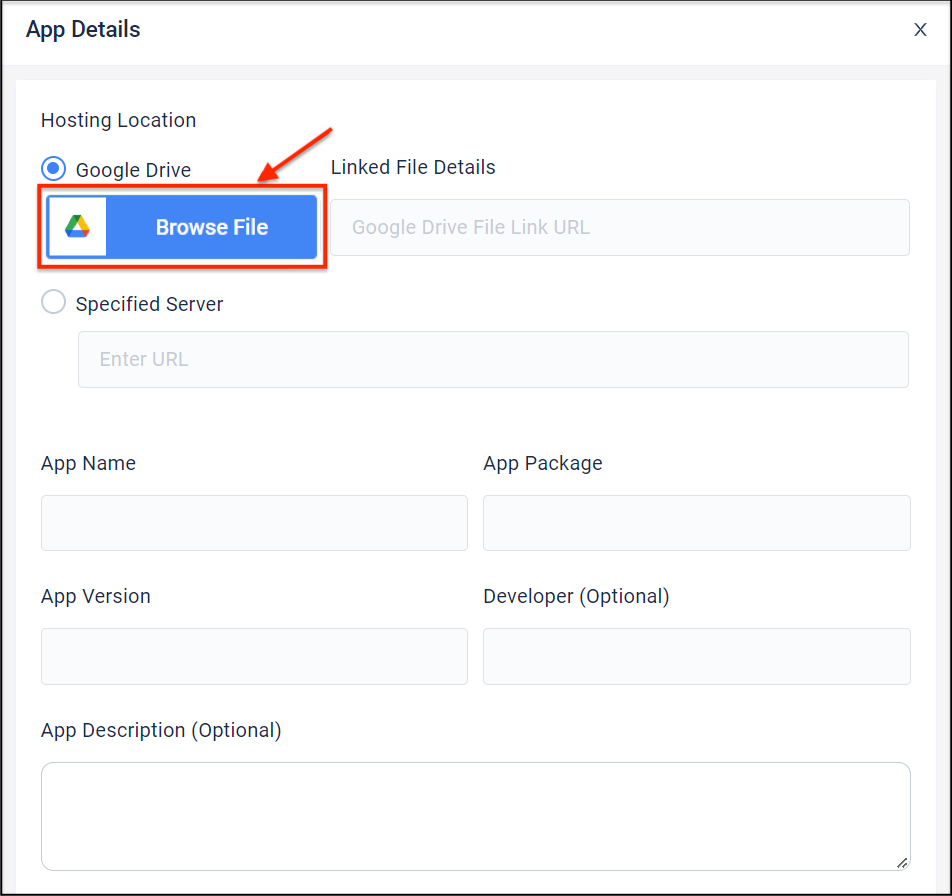
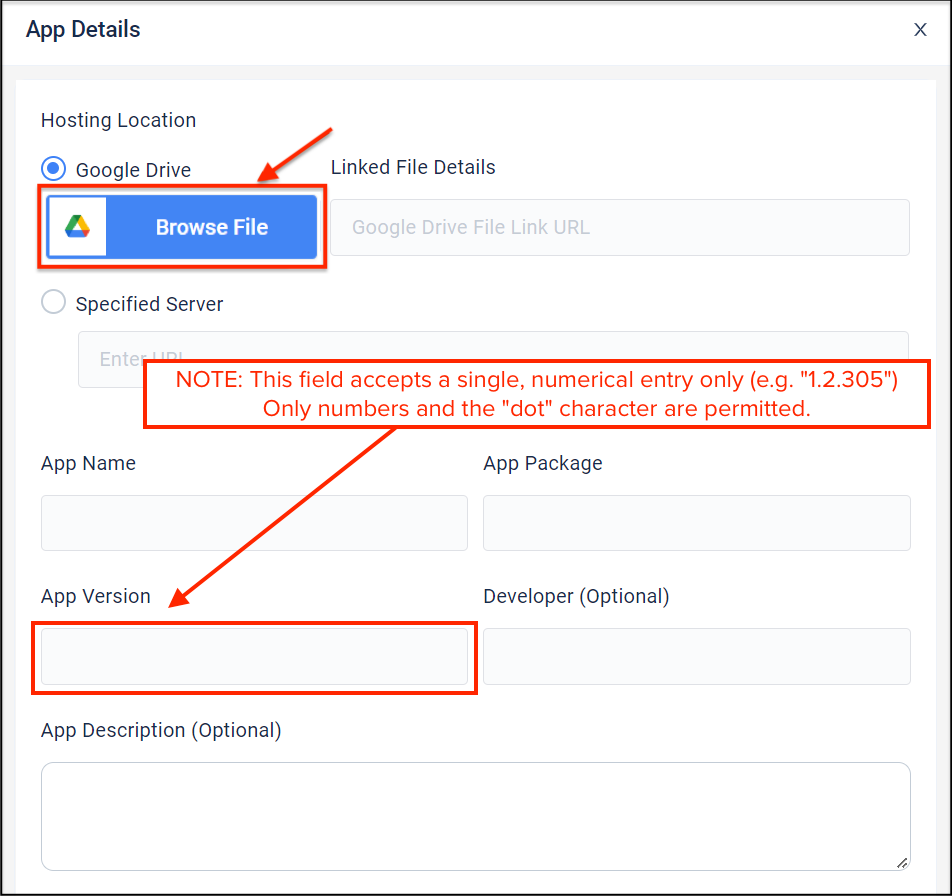
[TUT-98483] ZDNA 3.14 My Collection clarity. per PdM

diff --git a/zebradna/3-14/usage/index.html b/zebradna/3-14/usage/index.html
@@ -33,7 +33,8 @@
     <script src="js/respond.min.js"></script>
     <![endif]--> 
 
[1 lines of base64/hex data omitted]
+    <!-- 6/13/24- a "crown" icon randomly appeared in the MX matrix today. Rob said it looked like sumo. 
[1 lines of base64/hex data omitted]
     <link rel="shortcut icon" href="/favicon.ico">
 <script async="" src="https://www.googletagmanager.com/gtag/js?id=G-01QJCMQM9N"></script><script>
   window.dataLayer = window.dataLayer || [];
@@ -1138,13 +1139,17 @@ When finished uploading files <strong>click Next</strong> to proceed: <br>
 <h5 id="fromthemycollectiontab" class="anchor"><a class="heading-anchor" href="#fromthemycollectiontab"><span></span></a>From the My Collection tab:</h5>
 
 <ol>
-<li><p><strong>Click "Add App"</strong> to introduce a new app to the system<br> 
+<li><strong>Click "Add App"</strong> to introduce a new app to the system<br> 
 &nbsp;&nbsp;&nbsp;&nbsp; <strong>- OR -</strong> <br> 
 <strong>Click "Add Version"</strong> to add another version of an app already in the system: 
 <img alt="image" style="height:350px" src="myApps_01.png">
 <em>Click image to enlarge; ESC to exit.</em>
-<br></p></li>
+<br></li>
+</ol>
 
+<p><a id="appver"></a></p>
+
+<ol>
 <li><p><strong>Select the location of the app or app version</strong> (<code>.apk</code>) to be added:<br>
 &nbsp;&nbsp;&nbsp;&nbsp;<strong>a. For Google Drive</strong>: <strong>Click "Browse File"</strong> (signing in, if necessary). <i class="fa fa-exclamation-circle" style="color:#FF0000;"></i> <strong>Also <a href="#appnotes">see App Notes</a></strong>, below.<br> 
 <img alt="image" style="height:350px" src="myApps_02a.png">
@@ -1186,7 +1191,9 @@ A screen similar to the image below is temporarily displayed:
 <h3 id="appnotes" class="anchor"><a class="heading-anchor" href="#appnotes"><span></span></a>App Notes</h3>
 
 <ul>
-<li><strong>Changing the Google Drive after creating one or more Profiles could render those Profiles read-only</strong> and/or produce unpredictable behavior during deployments. <i class="fa fa-exclamation-triangle" style="color:#FFA500;"></i> <a href="../setup/#myservicesnotes">See My Services notes</a> for more information.</li>
+<li><strong>When manually adding an app to "My Collection," the "App Version" field accepts <u>ONLY numerical characters and one or more "dot" characters</u></strong> (e.g. "10.1" or "1.2.305"). This field DOES NOT accept alphabetic or other special characters. </li>
+
+<li><strong>Changing the Google Drive after creating one or more Profiles could render those Profiles read-only</strong> and/or produce unpredictable behavior during deployments.<br><i class="fa fa-exclamation-triangle" style="color:#FFA500;"></i> <a href="../setup/#myservicesnotes">See My Services notes</a> for more information.</li>
 
 <li><strong>A changed Google Drive is indicated by a banner</strong> similar to the one shown below (DNA Cloud 2.4 and later). <img alt="image" style="height:50px" src="24_g_drive_banner.png"></li>
 

diff --git a/zebradna/3-14/setup/index.html b/zebradna/3-14/setup/index.html
@@ -33,7 +33,8 @@
     <script src="js/respond.min.js"></script>
     <![endif]--> 
 
[1 lines of base64/hex data omitted]
+    <!-- 6/13/24- a "crown" icon randomly appeared in the MX matrix today. Rob said it looked like sumo. 
[1 lines of base64/hex data omitted]
     <link rel="shortcut icon" href="/favicon.ico">
 <script async="" src="https://www.googletagmanager.com/gtag/js?id=G-01QJCMQM9N"></script><script>
   window.dataLayer = window.dataLayer || [];
@@ -242,7 +243,7 @@
 
                                         <p></p><h2 id="overview" class="anchor"><a class="heading-anchor" href="#overview"><span></span></a>Overview</h2>
 
-<p><strong>This section covers the Zebra DNA Cloud (ZDNA) setup process</strong> and the first few steps for its use. For details about ZDNA usage, see the <a href="../usage">Usage Guide</a>. </p>
+<p><strong>This section covers the Zebra DNA Cloud (ZDNA) setup process</strong> and the first few steps for its use. For complete details about ZDNA usage, see the <a href="../usage">Usage Guide</a>. </p>
 
 <h3 id="setupsynopsis" class="anchor"><a class="heading-anchor" href="#setupsynopsis"><span></span></a>Setup Synopsis</h3>
 
@@ -547,7 +548,7 @@ Uninstall ZDNA client, purges device device from the system. Settings remain.
 
 <p><a id="myservices"></a>
 6. In My Services screen, <strong>click "Connect" on the desired service(s)</strong> and follow prompts.<br><i class="fa fa-exclamation-triangle" style="color:#FFA500;"></i> Services activated here are available to Administrative Users for use in setup Profiles, but only the Tenant Owner can create, edit or disable them. <strong><a href="../setup/#myservicesnotes">See My Services notes</a> below</strong>. 
-<img alt="image" style="height:350px" src="23_myprofile_services.png">
+<img alt="image" style="height:350px" src="314_myServices.png">
 <em>Click image to enlarge; ESC to exit.</em>
 <br></p>
 

diff --git a/zebradna/3-14/about/index.html b/zebradna/3-14/about/index.html
@@ -33,7 +33,8 @@
     <script src="js/respond.min.js"></script>
     <![endif]--> 
 
[1 lines of base64/hex data omitted]
+    <!-- 6/13/24- a "crown" icon randomly appeared in the MX matrix today. Rob said it looked like sumo. 
[1 lines of base64/hex data omitted]
     <link rel="shortcut icon" href="/favicon.ico">
 <script async="" src="https://www.googletagmanager.com/gtag/js?id=G-01QJCMQM9N"></script><script>
   window.dataLayer = window.dataLayer || [];

diff --git a/zebradna/3-14/design/ekd_usage/index.html b/zebradna/3-14/design/ekd_usage/index.html
@@ -33,7 +33,8 @@
     <script src="js/respond.min.js"></script>
     <![endif]--> 
 
[1 lines of base64/hex data omitted]
+    <!-- 6/13/24- a "crown" icon randomly appeared in the MX matrix today. Rob said it looked like sumo. 
[1 lines of base64/hex data omitted]
     <link rel="shortcut icon" href="/favicon.ico">
 <script async="" src="https://www.googletagmanager.com/gtag/js?id=G-01QJCMQM9N"></script><script>
   window.dataLayer = window.dataLayer || [];

diff --git a/zebradna/3-14/design/ekd_usage/index_old.html b/zebradna/3-14/design/ekd_usage/index_old.html
@@ -33,7 +33,8 @@
     <script src="js/respond.min.js"></script>
     <![endif]--> 
 
[1 lines of base64/hex data omitted]
+    <!-- 6/13/24- a "crown" icon randomly appeared in the MX matrix today. Rob said it looked like sumo. 
[1 lines of base64/hex data omitted]
     <link rel="shortcut icon" href="/favicon.ico">
 <script async="" src="https://www.googletagmanager.com/gtag/js?id=G-01QJCMQM9N"></script><script>
   window.dataLayer = window.dataLayer || [];

diff --git a/zebradna/3-14/design/index.html b/zebradna/3-14/design/index.html
@@ -33,7 +33,8 @@
     <script src="js/respond.min.js"></script>
     <![endif]--> 
 
[1 lines of base64/hex data omitted]
+    <!-- 6/13/24- a "crown" icon randomly appeared in the MX matrix today. Rob said it looked like sumo. 
[1 lines of base64/hex data omitted]
     <link rel="shortcut icon" href="/favicon.ico">
 <script async="" src="https://www.googletagmanager.com/gtag/js?id=G-01QJCMQM9N"></script><script>
   window.dataLayer = window.dataLayer || [];

diff --git a/zebradna/3-14/faq/index.html b/zebradna/3-14/faq/index.html
@@ -33,7 +33,8 @@
     <script src="js/respond.min.js"></script>
     <![endif]--> 
 
[1 lines of base64/hex data omitted]
+    <!-- 6/13/24- a "crown" icon randomly appeared in the MX matrix today. Rob said it looked like sumo. 
[1 lines of base64/hex data omitted]
     <link rel="shortcut icon" href="/favicon.ico">
 <script async="" src="https://www.googletagmanager.com/gtag/js?id=G-01QJCMQM9N"></script><script>
   window.dataLayer = window.dataLayer || [];

diff --git a/zebradna/3-14/licensing/index.html b/zebradna/3-14/licensing/index.html
@@ -33,7 +33,8 @@
     <script src="js/respond.min.js"></script>
     <![endif]--> 
 
[1 lines of base64/hex data omitted]
+    <!-- 6/13/24- a "crown" icon randomly appeared in the MX matrix today. Rob said it looked like sumo. 
[1 lines of base64/hex data omitted]
     <link rel="shortcut icon" href="/favicon.ico">
 <script async="" src="https://www.googletagmanager.com/gtag/js?id=G-01QJCMQM9N"></script><script>
   window.dataLayer = window.dataLayer || [];

diff --git a/zebradna/3-14/search/index.html b/zebradna/3-14/search/index.html
@@ -33,7 +33,8 @@
     <script src="js/respond.min.js"></script>
     <![endif]--> 
 
[1 lines of base64/hex data omitted]
+    <!-- 6/13/24- a "crown" icon randomly appeared in the MX matrix today. Rob said it looked like sumo. 
[1 lines of base64/hex data omitted]
     <link rel="shortcut icon" href="/favicon.ico">
 <script async="" src="https://www.googletagmanager.com/gtag/js?id=G-01QJCMQM9N"></script><script>
   window.dataLayer = window.dataLayer || [];
